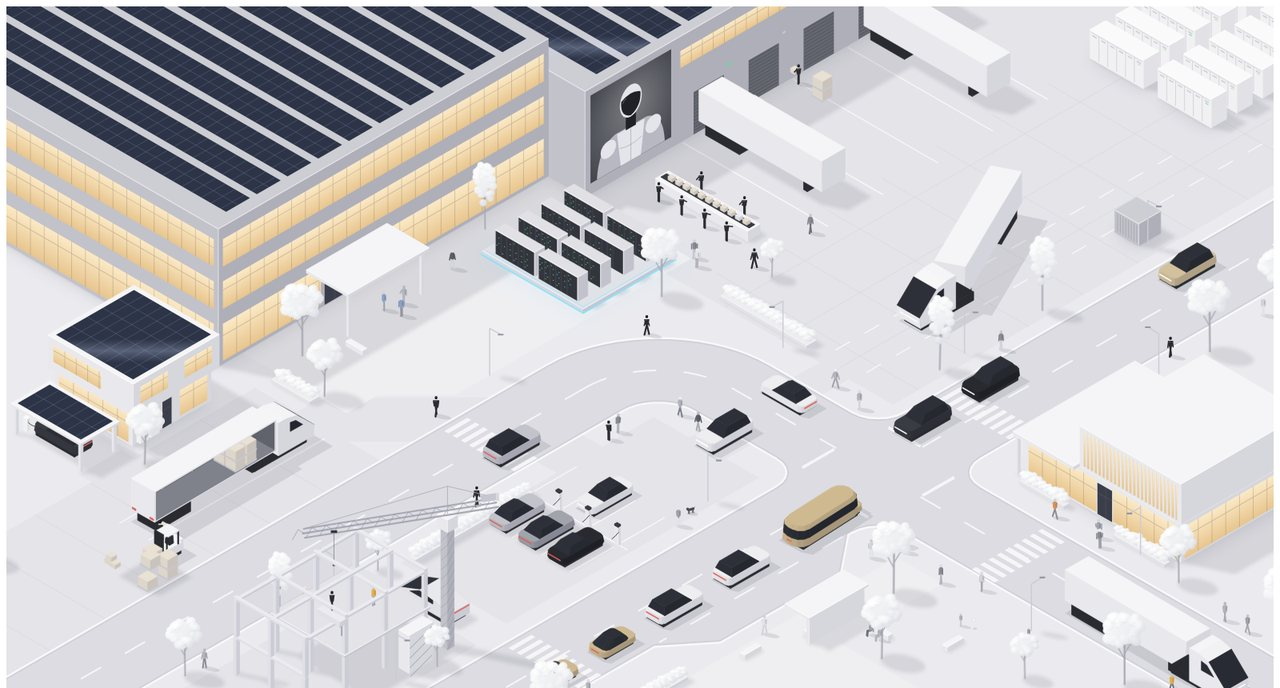
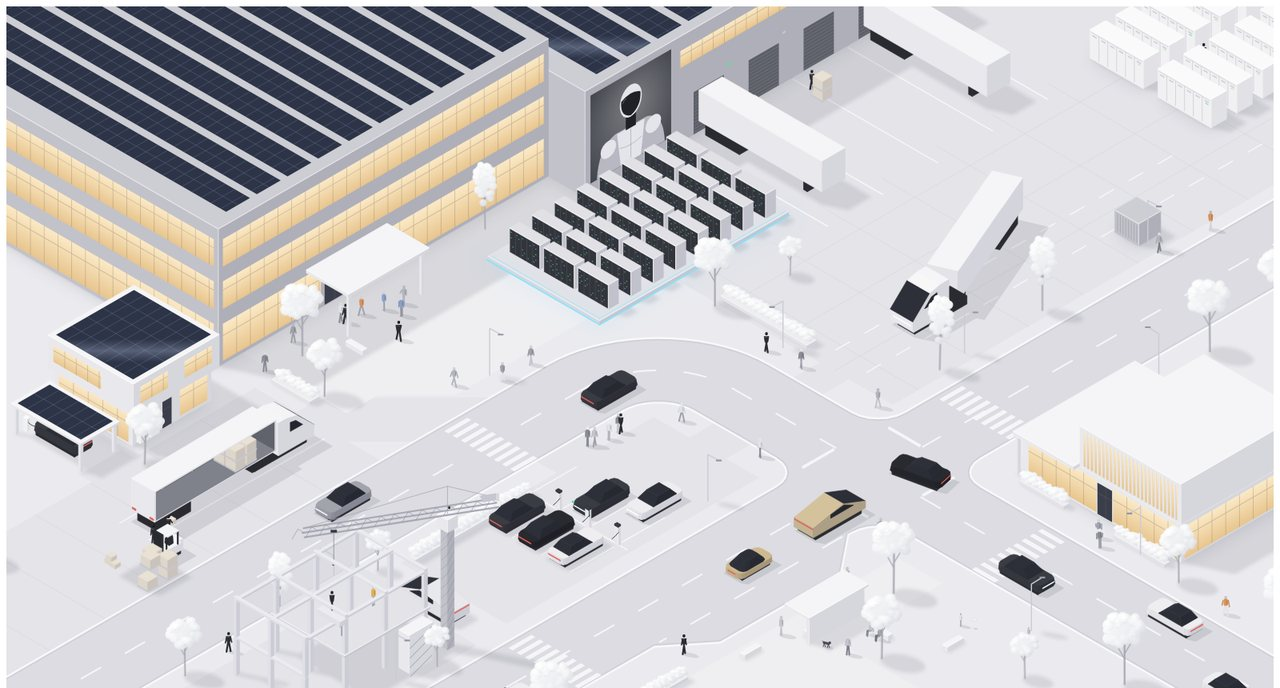
living-city: a bigger data centre in place of the robot workbench
The conveyor bench beside the docks, its robots, the chatting pair and
the footpath through that corner are gone. The AI-compute platform now
runs from the dock wing down to the plaza walk: 24 blinking rack blocks
in eight rows of three, with the cyan glow along its base.

Claude-Session: https://claude.ai/code/session_012ySDijcC9S9qEJByotkpyp

diff --git a/packages/living-city/src/engine/world.ts b/packages/living-city/src/engine/world.ts
@@ -1,7 +1,7 @@
 // The city: ground plan, buildings, props, traffic routes, walkways and the activities that bring it to life.
 //
 // Layout (world units ≈ metres). Roads: an avenue along y at x 68–76, a street along x at y 42–50 that bends into
-// the factory road along y at x 44–52. Factory top-left with the AI compute on the plaza in front of it; the dock
+// the factory road along y at x 44–52. Factory top-left with a large AI-compute platform in front of it; the dock
 // wing and an open truck yard (gate off the avenue, exit onto the street) top-centre, battery yard top-right;
 // a home with carport and the loading bay left; charging lot and construction bottom-centre; pavilion, robotaxi
 // stop and park bottom-right.
@@ -16,7 +16,7 @@ import type { Sprites } from './sprites';
 import { BoxItem, FnItem, HedgeItem, LampItem, TreeItem, type Static } from './statics';
 import { MESH, Traffic, junction, sameKind, type VehicleKind } from './vehicles';
 import { Crowd, WalkGraph, Walker } from './walkers';
-import { ChargingLot, Crane, Looper, Park, TaxiStop, TruckBay, TruckYard, Workbench, type Activity, type Env } from './activities';
+import { ChargingLot, Crane, Looper, Park, TaxiStop, TruckBay, TruckYard, type Activity, type Env } from './activities';
 
 export interface World {
   statics: Static[];
@@ -210,9 +210,10 @@ export function buildWorld(pal: Palette, sprites: Sprites, opts: WorldOptions): 
   }
 
   // ------------------------------------------------------------------------------------------------- AI compute
+  // one platform of server racks from the dock wing down to the plaza walk, eight rows of three
   S.push(
-    new FnItem(29.8, 37, 0, 40.8, 47, 0.35, (r) => {
-      box(r, 29.8, 37, 0, 40.8, 47, 0.35, pal.concrete, { edge });
+    new FnItem(30.6, 26.6, 0, 42.8, 47.2, 0.35, (r) => {
+      box(r, 30.6, 26.6, 0, 42.8, 47.2, 0.35, pal.concrete, { edge });
       const ctx = r.ctx;
       const pulse = 0.5 + 0.5 * Math.sin(r.t * 1.2);
       ctx.save();
@@ -224,22 +225,23 @@ export function buildWorld(pal: Palette, sprites: Sprites, opts: WorldOptions): 
       ctx.lineWidth = 0.12;
       ctx.lineJoin = 'round';
       ctx.beginPath();
-      lineW(ctx, 29.8, 47.1, 0.04, 40.9, 47.1, 0.04);
-      lineW(ctx, 40.9, 47.1, 0.04, 40.9, 37, 0.04);
+      lineW(ctx, 30.6, 47.3, 0.04, 42.9, 47.3, 0.04);
+      lineW(ctx, 42.9, 47.3, 0.04, 42.9, 26.6, 0.04);
       ctx.stroke();
       ctx.shadowBlur = 0;
       ctx.globalAlpha = 0.35 + 0.3 * pulse;
       ctx.lineWidth = 0.06;
       ctx.beginPath();
-      lineW(ctx, 30.0, 46.8, 0.36, 40.6, 46.8, 0.36);
-      lineW(ctx, 40.6, 46.8, 0.36, 40.6, 37.2, 0.36);
+      lineW(ctx, 30.8, 47.0, 0.36, 42.6, 47.0, 0.36);
+      lineW(ctx, 42.6, 47.0, 0.36, 42.6, 26.8, 0.36);
       ctx.stroke();
       ctx.restore();
     }),
   );
   let rackSeed = 0;
-  for (const y0 of [38.0, 40.5, 43.0, 45.5]) {
-    for (const [x0, x1] of [[30.8, 35.1], [35.5, 39.8]]) {
+  for (let row = 0; row < 8; row++) {
+    const y0 = 27.4 + row * 2.45;
+    for (const [x0, x1] of [[31.4, 34.73], [35.13, 38.47], [38.87, 42.2]]) {
       const seed = rackSeed++;
       S.push(new BoxItem(x0, y0, 0.35, x1, y0 + 1.1, 2.65, pal.rack, { edge }, (r) => rackFront(r, pal, x0, x1, y0 + 1.1, 0.35, 2.65)).live((r) => rackLeds(r, pal, x0, x1, y0 + 1.1, 2.65, seed)));
     }
@@ -398,12 +400,12 @@ export function buildWorld(pal: Palette, sprites: Sprites, opts: WorldOptions): 
 
   // ------------------------------------------------------------------------------------------------- greenery and street furniture
   const trees: [number, number, 'tree' | 'tree2' | 'poplar' | 'small', number][] = [
-    [29.6, 66.4, 'tree', 1], [34.6, 69.0, 'tree2', 0.9], [43.6, 41.2, 'tree', 0.95], [27.6, 44.5, 'poplar', 0.9],
+    [29.6, 66.4, 'tree', 1], [34.6, 69.0, 'tree2', 0.9], [47.4, 39.2, 'tree', 0.95], [27.6, 44.5, 'poplar', 0.9],
     [65.7, 21.8, 'poplar', 1], [65.7, 33.0, 'poplar', 1], [65.8, -9, 'poplar', 1], [78.7, 16.5, 'tree', 1],
     [84.3, 56.6, 'tree', 1], [89.8, 63.4, 'tree2', 1], [99.5, 57.5, 'small', 1], [105.5, 52.6, 'tree', 1], [54.0, 82.6, 'small', 0.9],
     [53.2, 92.5, 'poplar', 0.9], [53.4, 103, 'tree2', 0.9], [31.0, 103.5, 'tree', 1], [31.2, 85.2, 'tree2', 0.95],
     [18.6, 74.4, 'small', 0.9], [98.8, 40.0, 'tree2', 0.9], [110, 39.6, 'tree', 1], [78.8, 88.5, 'tree', 1],
-    [66.3, 88.4, 'small', 0.9], [78.7, 9, 'tree2', 1], [47.8, 33.4, 'small', 0.85],
+    [66.3, 88.4, 'small', 0.9], [78.7, 9, 'tree2', 1], [48.6, 32.2, 'small', 0.85],
   ];
   trees.forEach(([x, y, k, s], i) => S.push(new TreeItem(sprites, x, y, k, s, i * 1.7)));
   const hedges: number[][] = [
@@ -431,12 +433,9 @@ export function buildWorld(pal: Palette, sprites: Sprites, opts: WorldOptions): 
   };
   chat([[30.2, 56.0], [31.2, 57.2], [29.7, 57.6]]);
   chat([[90.2, 40.2], [91.2, 41.0]]);
-  chat([[41.7, 35.8], [42.7, 36.5]]);
   chat([[54.0, 56.4], [54.2, 57.6]]);
 
   // ------------------------------------------------------------------------------------------------- activities
-  // robots assembling at a bench beside the docks
-  acts.push(new Workbench(env, 33, 43, 29.9, 31.3));
   yard.seed(1, 9);
   acts.push(yard);
   acts.push(new TruckBay(env));
@@ -488,15 +487,13 @@ export function buildWorld(pal: Palette, sprites: Sprites, opts: WorldOptions): 
   g.link(fw1, fe[1], CW1);
   const door = g.node(26.8, 58.0, true);
   const p = [g.node(29.2, 58.6), g.node(36, 61.2), g.node(41.2, 61.6), g.node(29.0, 50.0), g.node(41, 50.2)];
-  // the staff door in the dock wing, and the path past the bench round to the street
-  const dockDoor = g.node(31.25, 25.6, true), yardA = g.node(46, 25.6), yardB = g.node(46, 39.4);
+
   g.chain([door, p[0], p[1]]);
   g.link(p[1], p[2], TP);
   g.link(p[2], fw1, TP);
   g.link(p[0], p[3]);
   g.link(p[3], p[4]);
   g.link(p[4], sn[1]);
-  g.chain([dockDoor, yardA, yardB, sn[2]]);
   // the front door of the house on the corner
   // round the plaza hedge to the front door of the house beside the bay
   g.chain([p[0], g.node(28.1, 66.2), g.node(29.9, 73.6), g.node(29.9, 80.4, true)]);

diff --git a/packages/living-city/src/engine/activities.ts b/packages/living-city/src/engine/activities.ts
@@ -747,55 +747,6 @@ export class Crane implements Activity {
 }
 
 // ---------------------------------------------------------------------------------------------------------------
-// Robot workbench: parts slide along the bench while robots work on them.
-
-export class Workbench implements Activity {
-  private parts: { x: number; k: number }[] = [];
-  private spawnT = 0;
-
-  constructor(private env: Env, readonly x0: number, readonly x1: number, readonly y0: number, readonly y1: number) {
-    const { pal, rng, crowd, statics } = env;
-    const h = 0.95;
-    statics.push(
-      new FnItem(x0, y0, 0, x1, y1, h + 0.4, (r) => {
-        box(r, x0, y0, 0, x1, y1, h, pal.white, { edge: 'rgba(255,255,255,0.7)' });
-        // conveyor belt strip
-        box(r, x0 + 0.2, (y0 + y1) / 2 - 0.3, h, x1 - 0.2, (y0 + y1) / 2 + 0.3, h + 0.04, pal.dark);
-        for (const p of this.parts) {
-          const m = p.k > 0.5 ? pal.crate : pal.steel;
-          const cy = (y0 + y1) / 2;
-          box(r, p.x - 0.22, cy - 0.2, h + 0.04, p.x + 0.22, cy + 0.2, h + 0.36, m);
-        }
-      }, (ctx) => boxShadow(ctx, x0, y0, x1, y1, h)),
-    );
-    for (let x = x0 + 0.6; x < x1 - 0.3; x += 0.8) this.parts.push({ x, k: rng() });
-    const front = [x0 + 1.4, x0 + 3.9, x0 + 6.4, x0 + 8.8];
-    for (const x of front) {
-      const w = new Walker('robot', pal, rng, x, y1 + 1.05);
-      w.face(0, -1);
-      w.stance = 'work';
-      crowd.add(w);
-    }
-    for (const x of [x0 + 2.7, x0 + 7.4]) {
-      const w = new Walker('robot', pal, rng, x, y0 - 0.9);
-      w.face(0, 1);
-      w.stance = 'work';
-      crowd.add(w);
-    }
-  }
-
-  update(dt: number) {
-    for (const p of this.parts) p.x += dt * 0.32;
-    this.parts = this.parts.filter((p) => p.x < this.x1 - 0.35);
-    this.spawnT -= dt;
-    if (this.spawnT <= 0) {
-      this.spawnT = 2.5;
-      this.parts.push({ x: this.x0 + 0.4, k: this.env.rng() });
-    }
-  }
-}
-
-// ---------------------------------------------------------------------------------------------------------------
 // Loops: a walker that repeats a list of steps forever (dock workers, a battery-yard inspector, site workers).
 
 export class Looper implements Activity {

diff --git a/packages/living-city/README.md b/packages/living-city/README.md
@@ -12,16 +12,17 @@ it plays.
   out and leaves by the street.
 - **Loading bay**: a semi pulls into the bay beside the factory and rolls up its curtain side. A forklift and two
   humanoid robots fill it pallet by pallet, then it closes up and drives off across the scene.
-- **Robots**: humanoid robots work a conveyor bench by the docks, carry boxes between the docked trailers, patrol the
+- **Robots**: humanoid robots carry boxes between the docked trailers, help load the semi at the bay, patrol the
   battery yard, work on the construction slab and walk the streets with everyone else.
+- **AI compute**: a platform of 24 server-rack blocks in front of the factory, with blinking status lights and a
+  pulsing cyan glow along its base.
 - **Charging**: cars nose into the chargers, charge (with a pulsing light and cable), back out and leave.
 - **Robotaxi stop**: pods and the van pull into the bay, open their doors, let people off, pick people up and go.
 - **Construction**: a tower crane swings between the material pile and the slab while workers move around.
 - **The home beside the loading bay**: solar roof, wall batteries with breathing status lights, and a carport where
   the car is on its charger.
 - **Ambient detail**: walkers on a walkway network, people chatting, sitting on a bench or playing ball in the park,
-  a dog on a walk, trees swaying, glints sweeping across solar roofs, blinking server racks, a breathing AI-compute
-  glow and pulsing battery status lights.
+  a dog on a walk, trees swaying, glints sweeping across solar roofs and pulsing battery status lights.
 
 There is a light theme and a night theme, and by default the scene matches the page it sits on (see *Dark mode*). Everything is drawn on one `<canvas>`, and the only dependency is React.
 
